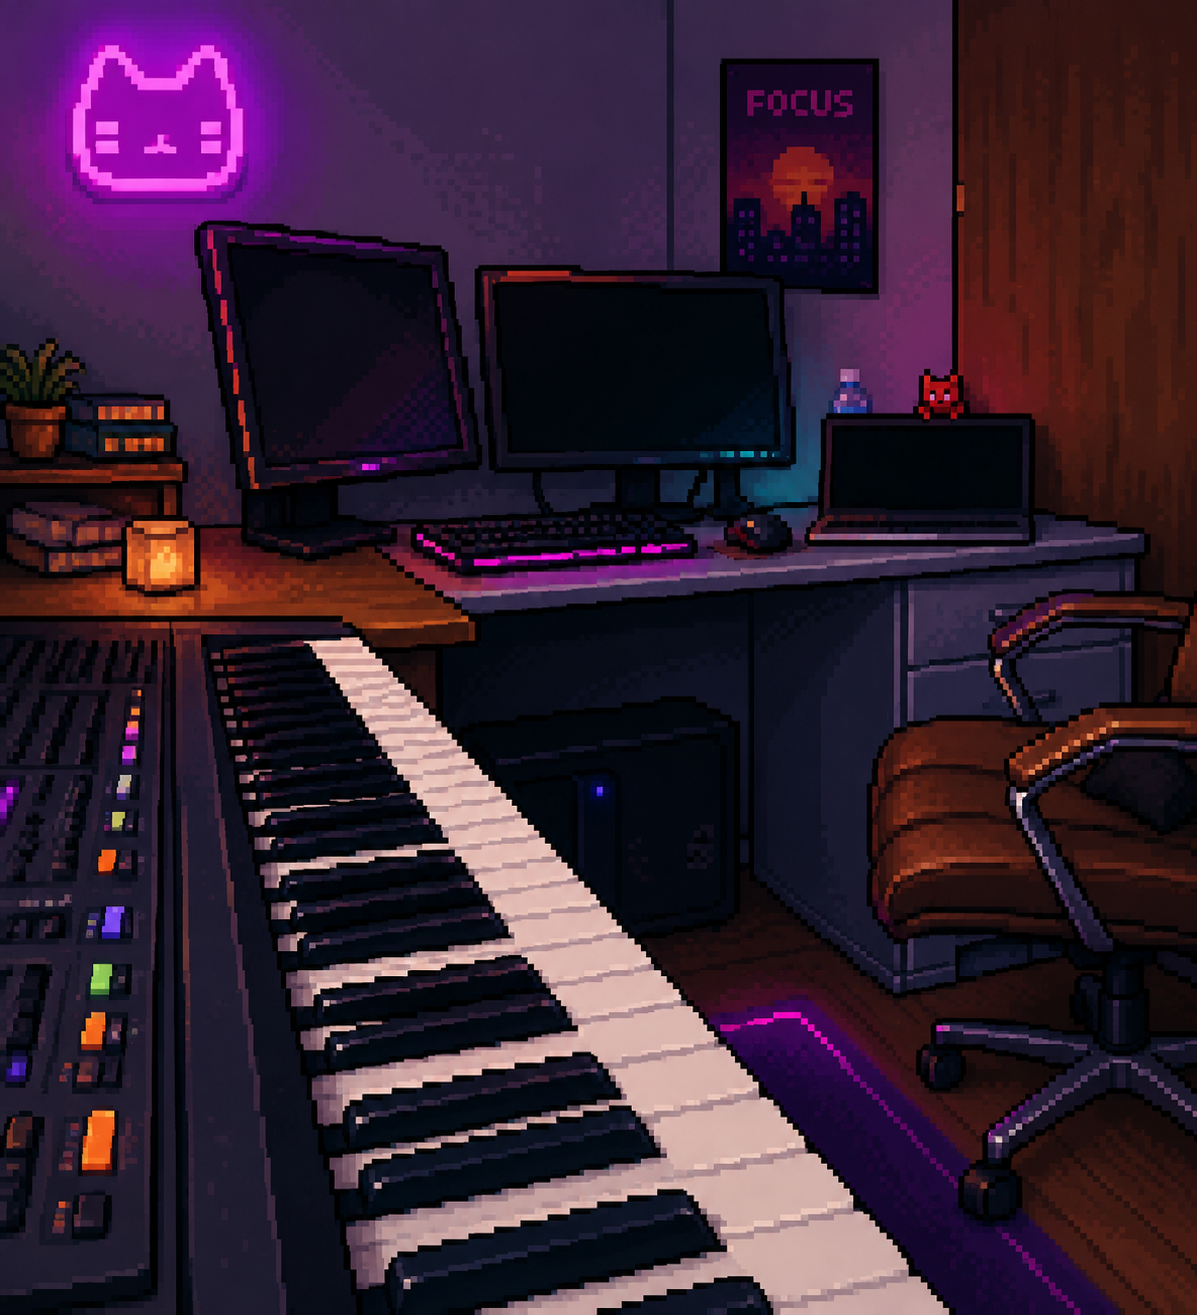
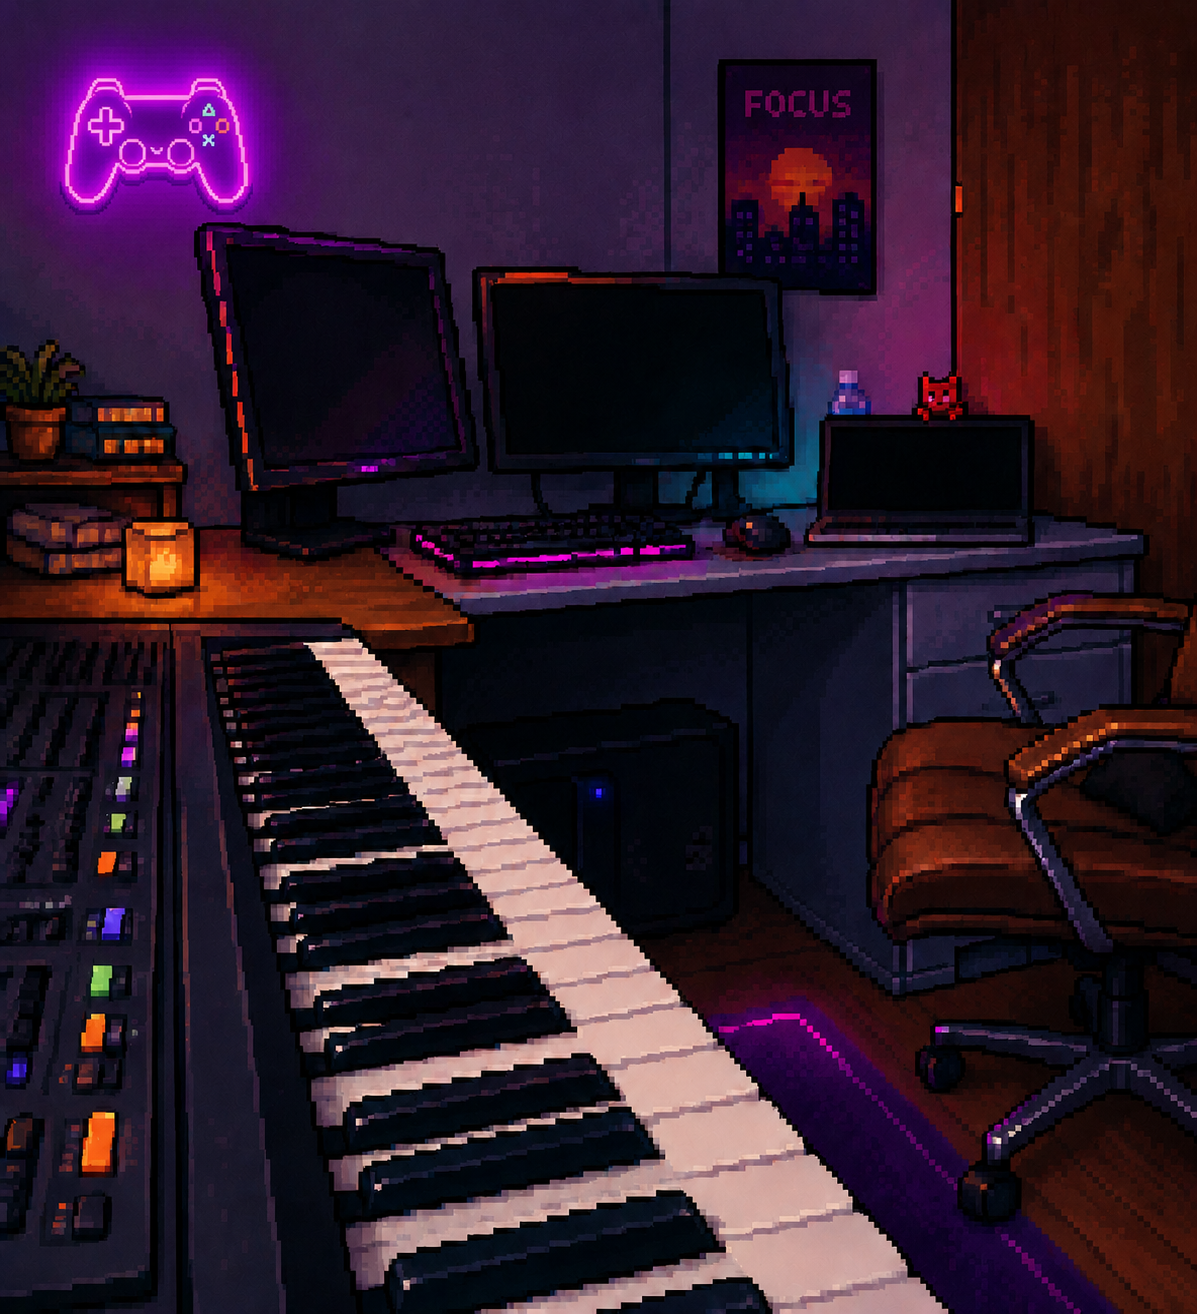
fix: Navbar and image

diff --git a/frontend/src/components/layout/Navbar.tsx b/frontend/src/components/layout/Navbar.tsx
@@ -13,10 +13,9 @@ const navLinks = [
   { href: '#projects', label: 'WORK', hoverColor: '#00C8FF' },
   { href: '#chapters', label: 'ERAS', hoverColor: '#FFE500' },
   { href: '#sysCore', label: 'SYS', hoverColor: '#00FF88' },
-  { href: '#music', label: 'MUSIC', hoverColor: '#9B59FF' },
+  { href: '/studio/piano', label: 'MUSIC', hoverColor: '#9B59FF' },
   { href: '#playlist', label: 'CD', hoverColor: '#FF2D78' },
-  { href: '#blog', label: 'BLOG', hoverColor: '#00C8FF' },
-  { href: '/studio/blog', label: 'STUDIO', hoverColor: '#9B59FF' },
+  { href: '/studio/blog', label: 'BLOG', hoverColor: '#00C8FF' },
   { href: '#guestbook', label: 'GUESTBOOK', hoverColor: '#FFE500' },
   { href: '#lab', label: 'LAB ⚗', hoverColor: '#FFE500' },
 ];

diff --git a/frontend/src/components/layout/MobileMenu.tsx b/frontend/src/components/layout/MobileMenu.tsx
@@ -8,10 +8,9 @@ const links = [
   { href: '#projects', label: 'WORK', color: '#f0f0f0' },
   { href: '#chapters', label: 'ERAS', color: '#f0f0f0' },
   { href: '#sysCore', label: 'SYS', color: '#00FF88' },
-  { href: '#music', label: 'MUSIC', color: '#9B59FF' },
+  { href: '/studio/piano', label: 'MUSIC', color: '#9B59FF' },
   { href: '#playlist', label: 'CD', color: '#FF2D78' },
-  { href: '#blog', label: 'BLOG', color: '#f0f0f0' },
-  { href: '/studio/blog', label: 'STUDIO', color: '#9B59FF' },
+  { href: '/studio/blog', label: 'BLOG', color: '#f0f0f0' },
   { href: '#guestbook', label: 'GUESTBOOK', color: '#FFE500' },
   { href: '#lab', label: 'LAB ⚗', color: '#f0f0f0' },
 ];
